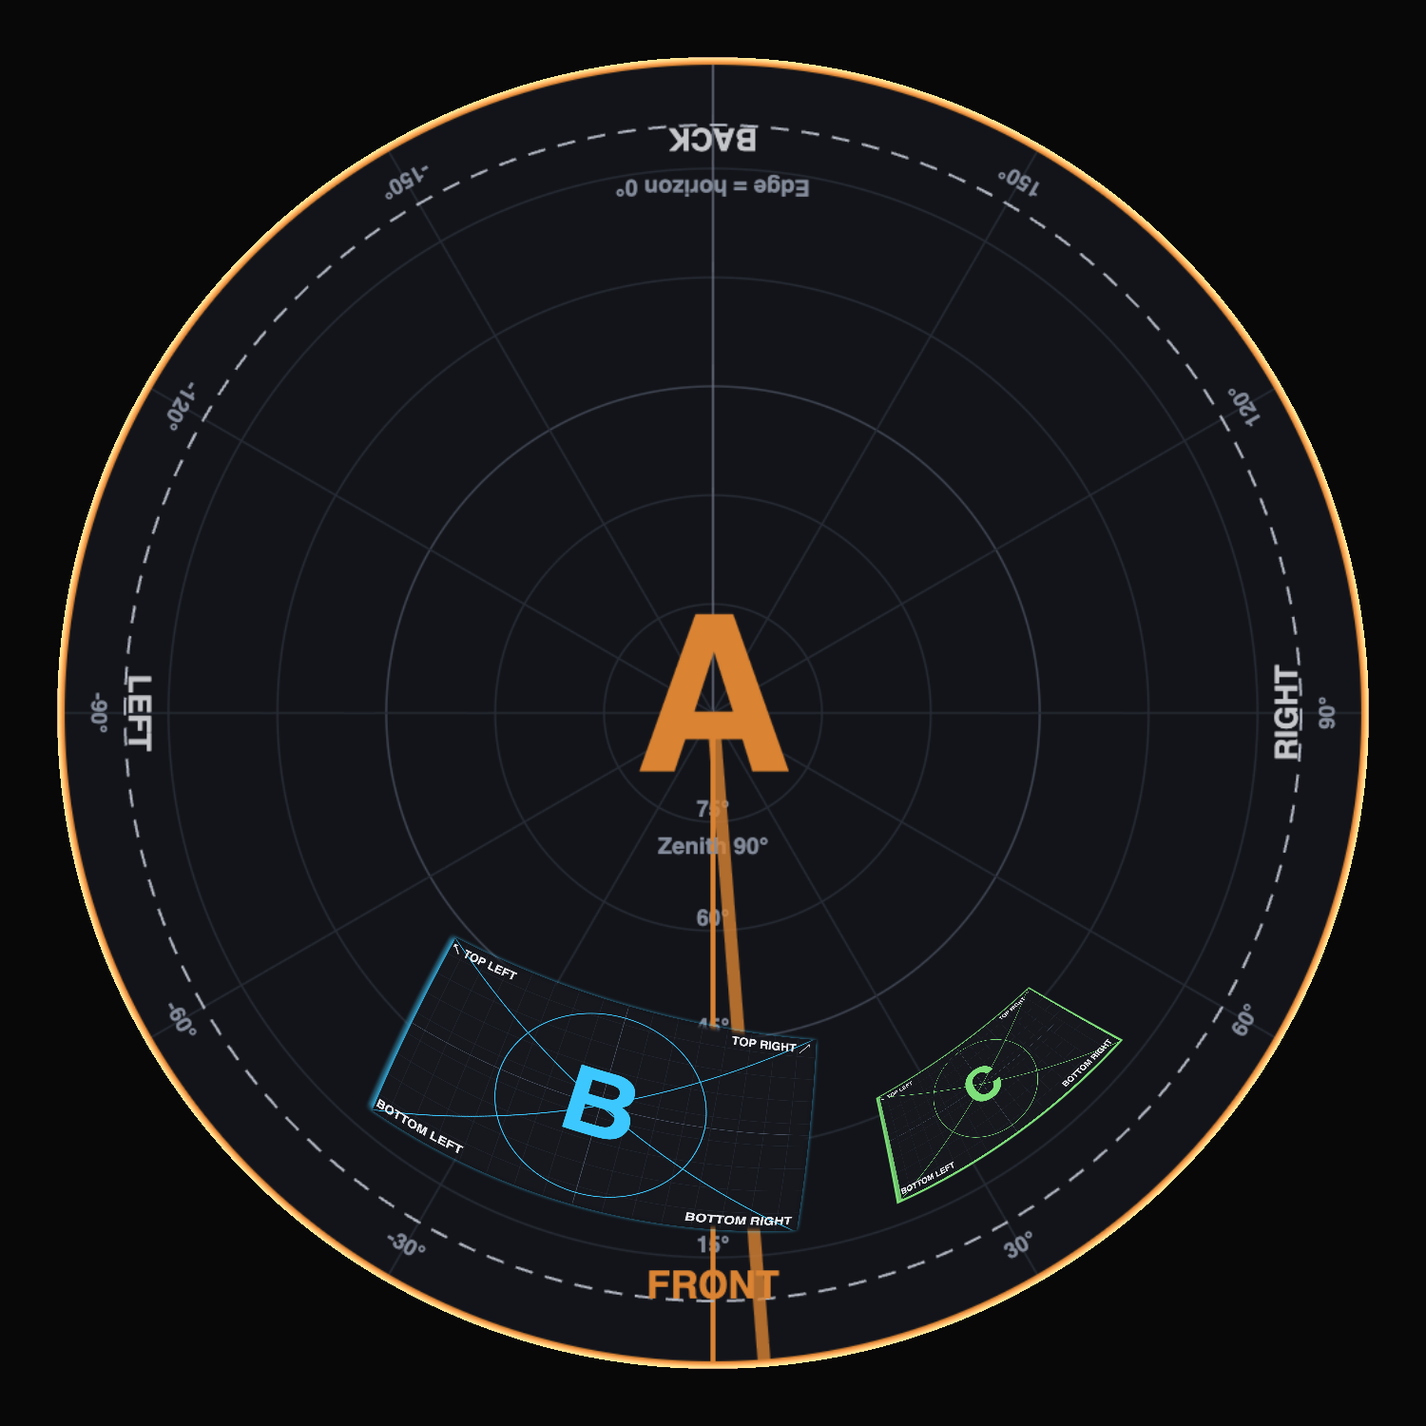
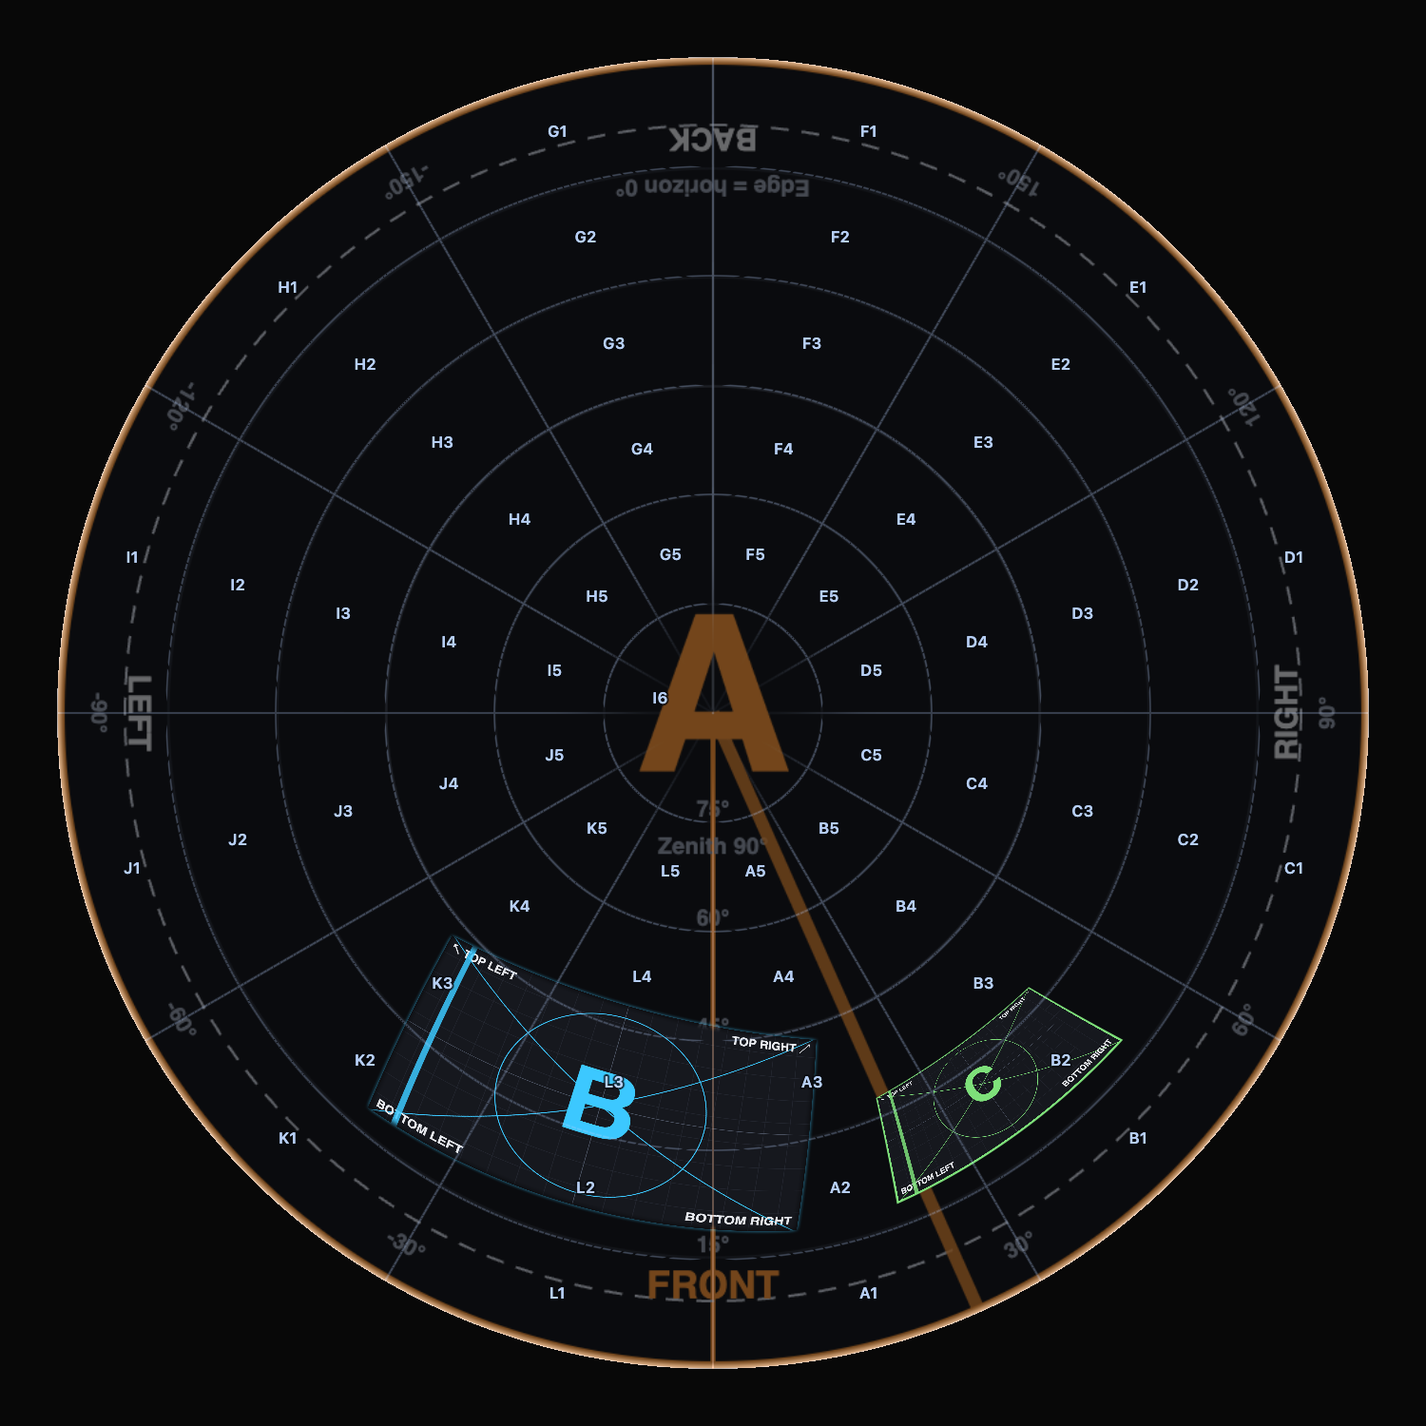
Grid labels, grid/tools in the domemaster window, compact domemaster card
- grid labels: cell IDs (A1 ...) or az/el coordinates, in all views and in the
  domemaster window
- domemaster window: optional grid and tools overlay (frames, handles, names)
- domemaster Syphon output: optional grid
- domemaster window card is always visible; rate and resolution on one line
- refactor: layer tools drawn through a shared projection function
- refresh README screenshots

diff --git a/index.html b/index.html
@@ -103,6 +103,12 @@ button.btn{cursor:pointer}
 button.btn:hover{border-color:var(--acc)}
 .btns{display:flex;gap:6px;flex-wrap:wrap;margin:6px 0}
 .btns button.btn{width:auto;flex:1 1 auto}
+.row2sel{display:grid;grid-template-columns:1fr 1fr;gap:8px;margin:6px 0}
+.mini{display:flex;flex-direction:column;gap:3px;font-size:11px;color:var(--dim)}
+.chips{display:flex;gap:6px;margin:6px 0}
+.chip{flex:1;display:flex;align-items:center;justify-content:center;gap:6px;padding:6px 8px;border:1px solid var(--line);border-radius:6px;background:var(--card);color:var(--dim);cursor:pointer;font:inherit;font-size:12px}
+.chip:hover{border-color:var(--acc)}
+.chip.on{border-color:var(--acc);background:#8aa4ff22;color:var(--fg)}
 .transport{display:grid;grid-template-columns:30px 1fr auto;gap:8px;align-items:center;margin:6px 0}
 .transport .pp{width:30px;padding:5px 0;display:grid;place-items:center}
 .transport .pp svg{width:14px;height:14px;display:block}
@@ -341,6 +347,12 @@ const EN = {
   'Die Syphon-Brücke läuft nur unter macOS (Syphon gibt es nur dort). Kamera/Virtual Cam, Fenster-Aufnahme und Videodatei funktionieren überall.':
     'The Syphon bridge runs on macOS only (Syphon exists only there). Camera / virtual cam, window capture and video files work everywhere.',
   'Sprache': 'Language', 'Projektname': 'Project name',
+  'Raster-Beschriftung': 'Grid labels', 'Zellen-IDs (A1 …)': 'Cell IDs (A1 …)', 'Koordinaten (Azimut/Höhe)': 'Coordinates (azimuth/elevation)',
+  'Werkzeuge': 'Tools',
+  'Raster im Domemaster-Fenster anzeigen (Stärke und Auflösung wie in der Ansicht)': 'Show grid in the domemaster window (strength and resolution as in the view)',
+  'Rahmen, Eckpunkte und Layer-Namen im Domemaster-Fenster anzeigen': 'Show frames, corner handles and layer names in the domemaster window',
+  'Raster im Domemaster-Ausgang': 'Grid in domemaster output',
+  'Auf den externen Monitor ziehen, Doppelklick oder F = Vollbild. Taste D öffnet es ebenfalls. Unabhängig vom Show-Modus.': 'Drag it to the external monitor, double-click or F = fullscreen. Key D opens it too. Independent of show mode.',
   'Raster-Auflösung': 'Grid resolution', 'Grob (45° / 30°)': 'Coarse (45° / 30°)', 'Normal (30° / 15°)': 'Normal (30° / 15°)', 'Fein (15° / 10°)': 'Fine (15° / 10°)', 'Sehr fein (10° / 5°)': 'Very fine (10° / 5°)',
   'Raster ein-/ausblenden · G': 'Show / hide grid · G', 'Raster ein-/ausblenden': 'Show / hide grid', 'Rasterstärke': 'Grid strength',
   'Abspielen': 'Play', 'Pause': 'Pause', 'Zeitleiste': 'Timeline',
@@ -383,17 +395,17 @@ const defLayer = i => ({
 const defState = () => ({
   project: '',   // Projektname (Anzeige, Preset-Dateiname)
   view: 'inside',
-  dome: { diameter: 12, eyeH: 1.2, spring: 1.0, seatDist: 0, seatAng: 180, lens: 0, ambient: 0.07, grid: 0.35, gridOn: true, gridRes: 1 },
+  dome: { diameter: 12, eyeH: 1.2, spring: 1.0, seatDist: 0, seatAng: 180, lens: 0, ambient: 0.07, grid: 0.35, gridOn: true, gridRes: 1, gridLabels: 0 },
   cam: { yaw: 0, pitch: 38, fovRect: 100, fovFish: 180, outYaw: -28, outPitch: 18, outDist: 3.4, outFov: 32 },
   layers: Array.from({ length: MAXL }, (_, i) => defLayer(i)),
   order: [0, 1],   // Zeichenreihenfolge, unten → oben (Layer-IDs)
   out: { fps: 30, flip: false,
-         master: { on: false, name: 'HOPE Dome Sim Domemaster', size: 1024 },
+         master: { on: false, name: 'HOPE Dome Sim Domemaster', size: 1024, grid: false },
          view: { on: false, name: 'HOPE Dome Sim Ansicht', size: 1280 } },
   sel: 0,
   showUI: true,   // Rahmen, Griffe und Labels im Viewport
   show: { on: false, fps: 15, scale: 0.5 },
-  win: { fps: 60, max: 4096 },   // separates Domemaster-Fenster   // Show-Modus: lokale Anzeige drosseln, Ausgabe bleibt voll
+  win: { fps: 60, max: 4096, grid: false, tools: false },   // separates Domemaster-Fenster   // Show-Modus: lokale Anzeige drosseln, Ausgabe bleibt voll
 });
 const state = defState();
 function deepAssign(t, s) {
@@ -422,14 +434,14 @@ function sanitizeOrder() {
 function applyDemo(kind) {
   const L = state.layers, set = (i, o) => Object.assign(L[i], o);
   state.project = 'Planetarium demo';
-  set(0, { used: true, name: 'Domemaster test', srcType: 'test', testKind: 2, mapping: 4, az: 0, el: 0, size: 180, aspect: 1, opacity: 0.85, blend: 0 });
+  set(0, { used: true, name: 'Domemaster test', srcType: 'test', testKind: 2, mapping: 4, az: 0, el: 0, size: 180, aspect: 1, opacity: 0.45, blend: 0 });
   set(1, { used: true, name: 'Stage screen', srcType: 'test', testKind: 0, mapping: 0, az: -16, el: 34, size: 50, roll: 0, opacity: 1, blend: 0, feather: 0.05 });
   set(2, { used: true, name: 'Side panel', srcType: 'test', testKind: 0, mapping: 0, az: 36, el: 26, size: 26, roll: 0, keyV: 0.3, opacity: 1, blend: 0 });
   state.order.length = 0; state.order.push(0, 1, 2); state.sel = 1;
-  Object.assign(state.dome, { eyeH: 1.1, spring: 1.25, seatDist: 4.2, seatAng: 180, lens: 0, gridOn: false, grid: 0.4 });
+  Object.assign(state.dome, { eyeH: 1.1, spring: 1.25, seatDist: 4.2, seatAng: 180, lens: 0, gridOn: true, grid: 0.4, gridRes: 1, gridLabels: 1 });
   Object.assign(state.cam, { yaw: -8, pitch: 38, fovRect: 112 });
   state.view = kind === 'popup' ? 'master' : 'inside';
-  if (kind === 'popup') { state.showUI = false; }
+  if (kind === 'popup') { state.showUI = false; state.dome.grid = 0.3; }
 }
 if (DEMO) applyDemo(DEMO);
 sanitizeOrder();
@@ -1620,17 +1632,41 @@ function buildPanel() {
   mkSlider(vb, 'Blickfeld', fov, 'v', 30, 240, 1, { fmt: v => Math.round(v) + '°' });
   mkSlider(vb, 'Kuppel-Grundhell.', d, 'ambient', 0, 0.3, 0.005, { fmt: v => Math.round(v * 100) + '%' });
   mkSelect(vb, 'Raster-Auflösung', d, 'gridRes', [[0, 'Grob (45° / 30°)'], [1, 'Normal (30° / 15°)'], [2, 'Fein (15° / 10°)'], [3, 'Sehr fein (10° / 5°)']]);
+  mkSelect(vb, 'Raster-Beschriftung', d, 'gridLabels', [[0, 'Aus'], [1, 'Zellen-IDs (A1 …)'], [2, 'Koordinaten (Azimut/Höhe)']]);
   mkBtns(vb, [
     ['Blick zurücksetzen', () => { Object.assign(cm, defState().cam); syncUI(); save(); }],
     ['Sitz in die Mitte', () => { d.seatDist = 0; syncUI(); save(); }],
   ]);
 
-  const wb = mkSection(panelR, 'Domemaster-Fenster');
+  // Domemaster-Fenster: immer sichtbar, kompakt (Rate + Auflösung in einer Zeile, Raster/Werkzeuge als Schalter)
+  const wb = h('div', 'staticsec'); wb.append(h('div', 'seclabel', 'Domemaster-Fenster')); panelR.append(wb);
   mkBtns(wb, [['Domemaster in eigenem Fenster öffnen', openDomeWindow]]);
-  mkSelect(wb, 'Fenster-Rate', state.win, 'fps', [[15, '15 fps'], [30, '30 fps'], [60, '60 fps'], [120, '120 fps']]);
-  mkSelect(wb, 'Max. Auflösung', state.win, 'max', [[1024, '1024 px'], [2048, '2048 px'], [3072, '3072 px'], [4096, '4096 px']]);
+  const miniSel = (label, obj, key, opts) => {
+    const wrap = h('label', 'mini'); wrap.append(h('span', null, label));
+    const sel = h('select');
+    opts.forEach(([v, t]) => { const o = h('option', null, t); o.value = v; sel.append(o); });
+    sel.value = obj[key];
+    sel.addEventListener('change', () => { obj[key] = Number(sel.value); syncUI(); save(); });
+    syncs.push(() => { sel.value = obj[key]; });
+    wrap.append(sel); return wrap;
+  };
+  const r2 = h('div', 'row2sel');
+  r2.append(miniSel('Fenster-Rate', state.win, 'fps', [[15, '15 fps'], [30, '30 fps'], [60, '60 fps'], [120, '120 fps']]),
+            miniSel('Max. Auflösung', state.win, 'max', [[1024, '1024 px'], [2048, '2048 px'], [3072, '3072 px'], [4096, '4096 px']]));
+  wb.append(r2);
+  const chips = h('div', 'chips');
+  const chip = (label, tip, obj, key) => {
+    const b = h('button', 'chip'); b.type = 'button'; b.title = T(tip);
+    b.append(h('span', null, label));
+    b.addEventListener('click', () => { obj[key] = !obj[key]; syncUI(); save(); });
+    syncs.push(() => b.classList.toggle('on', !!obj[key]));
+    return b;
+  };
+  chips.append(chip('Raster', 'Raster im Domemaster-Fenster anzeigen (Stärke und Auflösung wie in der Ansicht)', state.win, 'grid'),
+               chip('Werkzeuge', 'Rahmen, Eckpunkte und Layer-Namen im Domemaster-Fenster anzeigen', state.win, 'tools'));
+  wb.append(chips);
   domeWin.statusEl = h('div', 'status', 'Kein Fenster geöffnet'); wb.append(domeWin.statusEl);
-  wb.append(h('div', 'status', 'Zeigt das 1:1-Domemaster ohne Raster und Rahmen, unabhängig vom Show-Modus. Auf den externen Monitor ziehen, Doppelklick oder F = Vollbild. Taste D öffnet es ebenfalls.'));
+  wb.append(h('div', 'status', 'Auf den externen Monitor ziehen, Doppelklick oder F = Vollbild. Taste D öffnet es ebenfalls. Unabhängig vom Show-Modus.'));
 
   const sb = mkSection(panelR, 'Syphon');
   bridge.statusEl = h('div', 'status'); sb.append(bridge.statusEl);
@@ -1647,6 +1683,7 @@ function buildPanel() {
       : [[960, '960 × 540'], [1280, '1280 × 720'], [1920, '1920 × 1080']]);
   };
   outBlock('master', 'Domemaster 1:1 (Fisheye) ausgeben', 1);
+  mkCheck(sb, 'Raster im Domemaster-Ausgang', o.master, 'grid');
   outBlock('view', 'Aktuelle Ansicht (16:9) ausgeben', 0);
   mkSelect(sb, 'Bildrate', o, 'fps', [[15, '15 fps'], [30, '30 fps'], [60, '60 fps']]);
   mkCheck(sb, 'Ausgabe vertikal spiegeln', o, 'flip');
@@ -1753,7 +1790,7 @@ function sendOutput(t) {
     gl.bindFramebuffer(gl.FRAMEBUFFER, f.fbo);
     const flip = o.flip ? -1 : 1;
     if (key === 'master') {
-      pass(w, h, { cam: { kind: 'master' }, view: 2, base: 0, grid: 0, ms: 1, bg: 0, ring: 0, flip, bgr: 1 });
+      pass(w, h, { cam: { kind: 'master' }, view: 2, base: 0, grid: oo.grid ? state.dome.grid : 0, ms: 1, bg: 0, ring: 0, flip, bgr: 1 });
     } else {
       const v = state.view === 'master' ? 'inside' : state.view, c = cam(v), d = state.dome;
       pass(w, h, { cam: c, view: viewIdx(v), base: d.ambient, grid: d.gridOn ? d.grid : 0, ms: 0.92, bg: 0, ring: 0, flip, bgr: 1 });
@@ -1798,16 +1835,19 @@ function attachDomeWindow(w) {
   const d = w.document;
   d.title = ((state.project || '').trim() ? state.project.trim() + ' – ' : '') + 'HOPE Dome Sim – Domemaster';
   d.head.innerHTML = '<meta charset="utf-8"><style>html,body{margin:0;height:100%;background:#000;overflow:hidden;cursor:none}' +
-    'canvas{display:block;position:absolute;inset:0;margin:auto;width:min(100vw,100vh);height:min(100vw,100vh);background:#000}</style>';
+    'canvas{display:block;position:absolute;inset:0;margin:auto;width:min(100vw,100vh);height:min(100vw,100vh);background:#000}canvas.ov{background:transparent;pointer-events:none}</style>';
   d.body.innerHTML = '';
   const cv = d.createElement('canvas'); cv.width = cv.height = 1024;
   d.body.appendChild(cv);
+  const ov2 = d.createElement('canvas'); ov2.className = 'ov'; ov2.width = ov2.height = 1024;   // Werkzeuge / Beschriftung
+  d.body.appendChild(ov2);
   const c = makeGLContext(cv);
   if (!c) { w.close(); if (domeWin.statusEl) domeWin.statusEl.textContent = T('WebGL2 im Fenster nicht verfügbar'); return; }
   const toggleFs = () => { if (d.fullscreenElement) d.exitFullscreen(); else d.documentElement.requestFullscreen().catch(() => {}); };
   d.addEventListener('dblclick', toggleFs);
   w.addEventListener('keydown', e => { if (e.key === 'f' || e.key === 'F') toggleFs(); });
   domeWin.w = w; domeWin.cv = cv; domeWin.c = c; domeWin.last = 0;
+  domeWin.ov = ov2; domeWin.octx = ov2.getContext('2d'); domeWin.ovDirty = false;
   if (!domeWin.loop) { domeWin.loop = true; w.requestAnimationFrame(popupLoop); }
   if (domeWin.statusEl) domeWin.statusEl.textContent = T('Fenster offen – auf den externen Monitor ziehen, Doppelklick oder F = Vollbild');
 }
@@ -1835,8 +1875,21 @@ function drawDomeWindow(t) {
     uploadTextures(domeWin.c, t, false);
     setLayerUniforms();
     gl.bindFramebuffer(gl.FRAMEBUFFER, null);
-    pass(n, n, { cam: { kind: 'master' }, view: 2, base: 0, grid: 0, ms: 1, bg: 0, ring: 0, flip: 1, bgr: 0 });
+    pass(n, n, { cam: { kind: 'master' }, view: 2, base: 0, grid: state.win.grid ? state.dome.grid : 0, ms: 1, bg: 0, ring: 0, flip: 1, bgr: 0 });
   } finally { useCtx(mainCtx); }
+  // Werkzeuge (Rahmen, Griffe, Namen) und Raster-Beschriftung als 2D-Overlay im Fenster
+  const wantLabels = state.win.grid && state.dome.gridLabels > 0, wantTools = state.win.tools;
+  if (wantTools || wantLabels) {
+    const o2 = domeWin.ov, x = domeWin.octx;
+    if (o2.width !== n) { o2.width = o2.height = n; }
+    x.setTransform(1, 0, 0, 1, 0, 0); x.clearRect(0, 0, n, n);
+    const proj = dv => { const q = dirToPlane(1, dv, null); return [n / 2 + q[0] * n / 2, n / 2 - q[1] * n / 2]; };
+    if (wantLabels) drawGridLabels(x, proj, n / 900, null);
+    if (wantTools) drawLayerTools(x, proj, n / 900);
+    domeWin.ovDirty = true;
+  } else if (domeWin.ovDirty) {
+    domeWin.octx.clearRect(0, 0, domeWin.ov.width, domeWin.ov.height); domeWin.ovDirty = false;
+  }
 }
 let lastDisp = 0, drawOverlayWhenDue = null;
 // Median der Randpixel des (zugeschnittenen) Bildes = „Hintergrundfarbe“
@@ -1928,44 +1981,85 @@ function render(t) {
   scheduleFrame();
 }
 
-function drawOverlay(c) {
-  octx.setTransform(DPR, 0, 0, DPR, 0, 0);
-  octx.clearRect(0, 0, W, H);
-  const drawOrder = state.showUI ? state.order.filter(i => i !== state.sel).concat(state.order.includes(state.sel) ? [state.sel] : []) : [];
-  for (const i of drawOrder) {
+// Layer-Rahmen, Mittelpunkt, Namen und Eckgriffe (proj: Richtung → Bildschirmpunkt oder null; scl: Größenfaktor)
+function drawLayerTools(ctx, proj, scl) {
+  const order = state.order.filter(i => i !== state.sel).concat(state.order.includes(state.sel) ? [state.sel] : []);
+  for (const i of order) {
     const L = state.layers[i], G = geoms[i];
     if (!L.used || !L.on || L.locked || !G || !G.ok) continue;   // gesperrte Layer: kein Rahmen
     const sel = i === state.sel, col = slots[i].color;
-    octx.lineWidth = sel ? 2 : 1.25; octx.strokeStyle = col; octx.globalAlpha = sel ? 0.95 : 0.5;
+    ctx.lineWidth = (sel ? 2 : 1.25) * scl; ctx.strokeStyle = col; ctx.globalAlpha = sel ? 0.95 : 0.5;
     const uvs = [[0, 0], [1, 0], [1, 1], [0, 1]];
-    octx.beginPath();
+    ctx.beginPath();
     let pen = false;
     for (let k = 0; k < 4; k++) {
       const a = uvs[k], b = uvs[(k + 1) % 4];
-      for (let s = 0; s <= 24; s++) {
-        const t = s / 24, p = dirToScreen(uvToDir(G, L, a[0] + (b[0] - a[0]) * t, a[1] + (b[1] - a[1]) * t), c);
+      for (let s2 = 0; s2 <= 24; s2++) {
+        const t = s2 / 24, p = proj(uvToDir(G, L, a[0] + (b[0] - a[0]) * t, a[1] + (b[1] - a[1]) * t));
         if (!p) { pen = false; continue; }
-        if (!pen) { octx.moveTo(p[0], p[1]); pen = true; } else octx.lineTo(p[0], p[1]);
+        if (!pen) { ctx.moveTo(p[0], p[1]); pen = true; } else ctx.lineTo(p[0], p[1]);
       }
     }
-    octx.stroke();
-    // Zentrum + Label
-    const cp = dirToScreen(uvToDir(G, L, 0.5, 0.5), c);
+    ctx.stroke();
+    const cp = proj(uvToDir(G, L, 0.5, 0.5));
     if (cp) {
-      octx.globalAlpha = sel ? 0.9 : 0.6; octx.fillStyle = col;
-      octx.font = '600 12px -apple-system, system-ui, sans-serif'; octx.textAlign = 'left'; octx.textBaseline = 'bottom';
-      octx.beginPath(); octx.arc(cp[0], cp[1], 3, 0, TAU); octx.fill();
-      octx.fillText(L.name || slots[i].label, cp[0] + 7, cp[1] - 5);
+      ctx.globalAlpha = sel ? 0.9 : 0.6; ctx.fillStyle = col;
+      ctx.font = `600 ${Math.round(12 * scl)}px -apple-system, system-ui, sans-serif`; ctx.textAlign = 'left'; ctx.textBaseline = 'bottom';
+      ctx.beginPath(); ctx.arc(cp[0], cp[1], 3 * scl, 0, TAU); ctx.fill();
+      ctx.fillText(L.name || slots[i].label, cp[0] + 7 * scl, cp[1] - 5 * scl);
     }
     if (sel && !G.pano) {
-      octx.globalAlpha = 1;
-      G.dirs.forEach((dv, k) => {
-        const p = dirToScreen(dv, c); if (!p) return;
-        octx.beginPath(); octx.arc(p[0], p[1], 7, 0, TAU);
-        octx.fillStyle = col; octx.fill(); octx.lineWidth = 2; octx.strokeStyle = '#0b0d14'; octx.stroke();
+      ctx.globalAlpha = 1;
+      G.dirs.forEach(dv => {
+        const p = proj(dv); if (!p) return;
+        ctx.beginPath(); ctx.arc(p[0], p[1], 7 * scl, 0, TAU);
+        ctx.fillStyle = col; ctx.fill(); ctx.lineWidth = 2 * scl; ctx.strokeStyle = '#0b0d14'; ctx.stroke();
       });
     }
   }
+  ctx.globalAlpha = 1;
+}
+// Spaltenbuchstaben A, B … Z, AA, AB …
+function colLabel(i) { let t = ''; i = i | 0; do { t = String.fromCharCode(65 + (i % 26)) + t; i = Math.floor(i / 26) - 1; } while (i >= 0); return t; }
+// Raster-Beschriftung: Modus 1 = Zell-IDs in den Zellmitten (A = erste Spalte rechts von vorne, 1 = unterstes Band),
+// Modus 2 = Koordinaten az°/el° an den Linienkreuzungen. eye ≠ null: Außenansicht, nur die gegenüberliegende Innenseite beschriften.
+function drawGridLabels(ctx, proj, scl, eye) {
+  const mode = state.dome.gridLabels | 0;
+  if (!mode) return;
+  const [azS, elS] = GRID_RES[clamp(state.dome.gridRes | 0, 0, GRID_RES.length - 1)];
+  const nCol = Math.round(360 / azS), nRow = Math.round(90 / elS);
+  const dirOf = (az, el) => { const a = az * D2R, e = el * D2R; return [Math.cos(e) * Math.sin(a), Math.sin(e), -Math.cos(e) * Math.cos(a)]; };
+  const fs = Math.round(11 * scl);
+  ctx.save();
+  ctx.textAlign = 'center'; ctx.textBaseline = 'middle';
+  ctx.font = `600 ${fs}px -apple-system, system-ui, sans-serif`;
+  ctx.lineJoin = 'round'; ctx.lineWidth = 3 * scl; ctx.strokeStyle = 'rgba(8,10,14,.78)'; ctx.fillStyle = 'rgba(190,215,255,.96)';
+  const put = (txt, az, el) => {
+    const d = dirOf(az, el);
+    if (eye && V.dot(d, eye) > 0) return;
+    const p = proj(d); if (!p) return;
+    const w = ctx.measureText(txt).width + 8 * scl;
+    const h = proj(dirOf(az + azS, el)), v = proj(dirOf(az, el + elS));
+    if (h && Math.hypot(h[0] - p[0], h[1] - p[1]) < w) return;       // zu eng nebeneinander
+    if (v && Math.hypot(v[0] - p[0], v[1] - p[1]) < fs + 4 * scl) return;   // zu eng übereinander
+    ctx.strokeText(txt, p[0], p[1]); ctx.fillText(txt, p[0], p[1]);
+  };
+  if (mode === 1) {
+    for (let c = 0; c < nCol; c++) for (let r = 0; r < nRow; r++) put(colLabel(c) + (r + 1), (c + 0.5) * azS, (r + 0.5) * elS);
+  } else {
+    for (let c = 0; c < nCol; c++) for (let r = 0; r < nRow; r++) {
+      const az = c * azS, azSigned = az > 180 ? az - 360 : az, el = r * elS;
+      put(`${azSigned}°/${el}°`, az, el);
+    }
+  }
+  ctx.restore();
+}
+function drawOverlay(c) {
+  octx.setTransform(DPR, 0, 0, DPR, 0, 0);
+  octx.clearRect(0, 0, W, H);
+  const proj = d => dirToScreen(d, c);
+  if (state.dome.gridOn && state.dome.gridLabels > 0) drawGridLabels(octx, proj, 1, c.kind === '3d' && c.outside ? c.eye : null);
+  if (state.showUI) drawLayerTools(octx, proj, 1);
   octx.globalAlpha = 1;
   // Sitz-Marker (Außenansicht) und HUD (Innenansicht)
   const dm = state.dome, R = dm.diameter / 2;
@@ -2192,7 +2286,7 @@ else {
   }
 }
 // für Debugging in der Konsole
-window.__dome = { perf, tick, scheduleFrame, bridge, slots, state, domeWin, attachDomeWindow, openDomeWindow, setShowMode, geom, cam, screenToDir, dirToScreen, layerUV, squareToQuad, invertH, dirToPlane, planeToDir };
+window.__dome = { drawDomeWindow, perf, tick, scheduleFrame, bridge, slots, state, domeWin, attachDomeWindow, openDomeWindow, setShowMode, geom, cam, screenToDir, dirToScreen, layerUV, squareToQuad, invertH, dirToPlane, planeToDir };
 })();
 </script>
 </body>

diff --git a/README.md b/README.md
@@ -8,13 +8,13 @@ Created by **Sonarkon** · <https://github.com/sonarkon/Dome-Sim>
 
 ![HOPE Dome Sim – inside view with layers, corner handles and the control panels](docs/images/inside-view.png)
 
-*Inside view from a seat: layers with corner handles, view & dome settings, Syphon and output options.*
+*Inside view from a seat: layers with corner handles, grid with cell IDs (A1 …), view & dome settings, domemaster window and Syphon options.*
 
 <p align="center">
   <img src="docs/images/domemaster-window.png" alt="The separate domemaster window showing the 1:1 fisheye output" width="520">
 </p>
 
-*The separate domemaster window (1:1 fisheye, front at the bottom) – ready to drag to an external monitor and go fullscreen.*
+*The separate domemaster window (1:1 fisheye, front at the bottom) with grid, cell IDs and tools switched on – ready to drag to an external monitor and go fullscreen.*
 
 ---
 
@@ -24,7 +24,7 @@ Created by **Sonarkon** · <https://github.com/sonarkon/Dome-Sim>
 - **Up to 8 layers** with order (drag & drop), lock, visibility, opacity and blend modes (over / add / subtract / multiply / screen).
 - **Placement:** flat screen, quad in domemaster plane, quad in azimuth/elevation, 360° panorama band, full domemaster. Corner-pin warp, keystone, per-side edge feather with falloff curve, source crop, flips.
 - **Edge extension** for videos on a solid background (stretch edge pixels or fill with the median edge color).
-- **Grid overlay** with adjustable resolution (45°/30° down to 10°/5°), toggle and strength in the toolbar.
+- **Grid overlay** with adjustable resolution (45°/30° down to 10°/5°) and optional labels: cell IDs (A1 …) or az/el coordinates. Toggle and strength sit in the toolbar; the grid can also be shown in the domemaster window and the domemaster Syphon output.
 - **Audience position:** eye height, dome rim height (springline offset), seat distance/angle, draggable seat in the outside view.
 - **Sources:** Syphon (via the bridge, macOS), camera / virtual cam, window / screen capture, video files (loop, play/pause, scrub timeline) and still images, built-in test patterns (16:9, 2:1 equirect, 1:1 domemaster).
 - **Projects & presets:** project name field above the layers; presets export as JSON named after the project.
